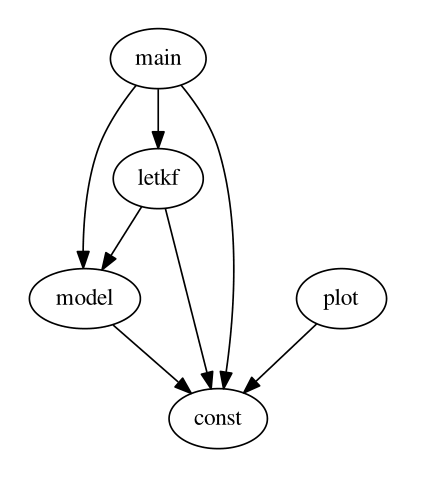
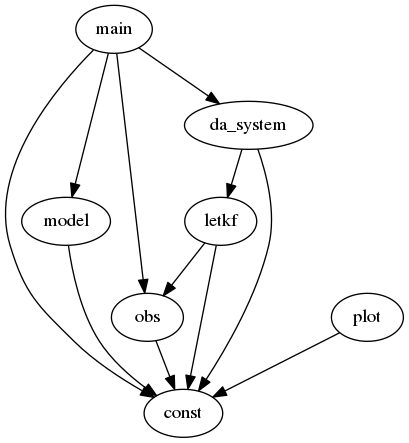
modify

diff --git a/works/2017/unified_da/README.md b/works/2017/unified_da/README.md
@@ -10,8 +10,10 @@ evince image/merged.pdf
 <img src="documentation/graph.png">
 
 * main: run nature run, observation, and DA cycle. Output is saved at **data/**
+* da_system: wrapper for DA algorithms
 * letkf: LETKF core programs
-* model: model dependent functions including observation
+* model: model integration and TLM
+* obs: observation generation and xb -> yb transform
 * plot: all visualization functions. Read **data/** and write **image/**
 * const: Run-time settings
 
